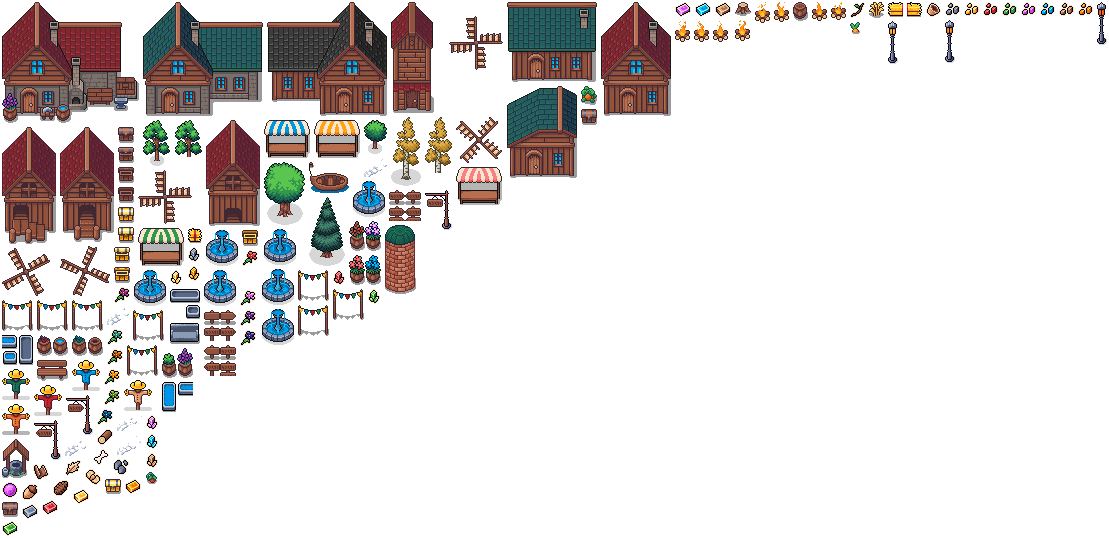
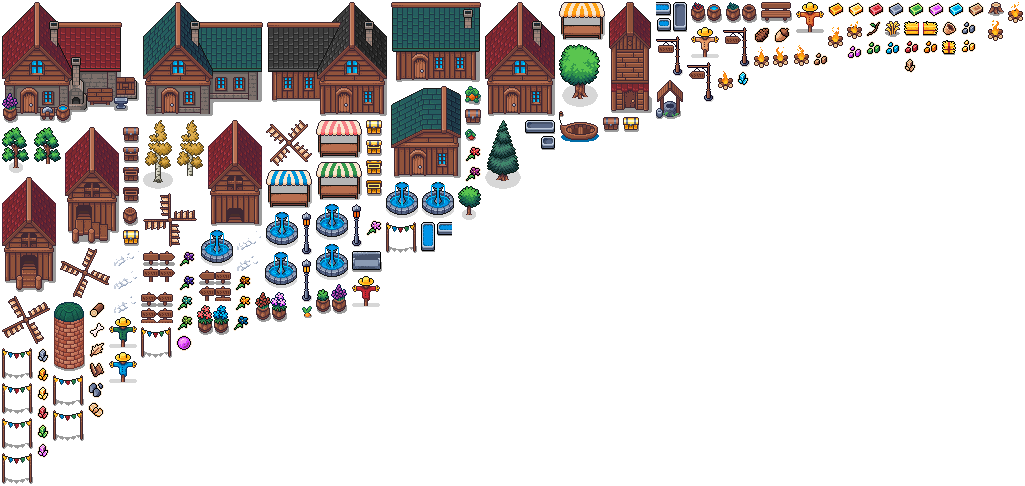
web: polish — windmill sails turn, drawn gold coin and purse in the Town, sellers stand behind their stalls
The mill sprite was the whole sheet (tower plus a loose sail side by side); it is now the tower with the
animated sail on its hub. Coins and the purse use the drawn icons (a plain gold coin, no currency logo)
instead of Kenmi's gold ore. A listing sends its seller behind the stall's counter ('N credits for M sat!')
and back home when it is sold or cancelled.

diff --git a/apps/web/src/town/scenes/TownScene.ts b/apps/web/src/town/scenes/TownScene.ts
@@ -6,7 +6,8 @@
 import Phaser from 'phaser'
 import type { AppStoreApi } from '../../store'
 import type { EventBus } from '../../events/bus'
-import { Bell, Cart, House, Stall, Workshop, placeAnimated, placeStatic, Building } from '../entities/Buildings'
+import { Bell, Cart, House, Stall, Workshop, ensureAnim, placeAnimated, placeStatic, Building } from '../entities/Buildings'
+import { ICONS } from '../../ui/icons.generated'
 import { Guard, Stranger, VaultChest } from '../entities/Guard'
 import { Board } from '../entities/Board'
 import { CHARS, Villager, type Profile } from '../entities/Villager'
@@ -61,6 +62,7 @@ export class TownScene extends Phaser.Scene {
     for (let f = 0; f < WATER_FRAMES; f++) this.load.image(`t_water_${f}`, `/game/terrain/water_${f}.png`)
     this.load.atlas('town', '/game/town.png', '/game/town.json')
     this.load.atlas('chars', '/game/chars.png', '/game/chars.json')
+    this.load.spritesheet('icons', '/ui/icons.png', { frameWidth: 16, frameHeight: 16 })
   }
 
   create (): void {
@@ -80,6 +82,8 @@ export class TownScene extends Phaser.Scene {
       if (p.kind === 'house' || p.kind === 'workshop' || p.kind === 'coop' || p.kind === 'board' || p.kind === 'fountain' || p.kind === 'stall' || p.kind === 'fisherman' || p.kind === 'boat') continue
       if (p.anim !== undefined) placeAnimated(this, p.frame.replace(/_\d+$/, ''), p.anim.frames, p.anim.fps, p.x, p.y, Math.floor(p.x / 7))
       else placeStatic(this, p.frame, p.x, p.y)
+      // the mill's sails turn around the hub on the tower's front (32, 40 in the 64×112 tower; 64×80 frames centred on the hub)
+      if (p.kind === 'windmill') this.add.sprite(p.x, p.y - 72, 'town', 'windmill_sail_0').setDepth(p.y + 1).play(ensureAnim(this, 'windmill_sail', 4, 3))
       if (p.kind === 'lantern') this.lamps.push(this.add.image(p.x, p.y - 34, 'glow').setTint(0xffb347).setBlendMode(Phaser.BlendModes.ADD).setAlpha(0).setDepth(DEPTH.lights))
     }
     const door = (p: { x: number, y: number, door?: { dx: number, dy: number } }) => ({ x: p.x + (p.door?.dx ?? 0) * TILE, y: p.y + (p.door?.dy ?? 1) * TILE })
@@ -90,7 +94,7 @@ export class TownScene extends Phaser.Scene {
     const gate = POINTS.gate!
     this.guard = new Guard(this, gate.x + 58, gate.y + 8)
     const harbor = PLACES.find(p => p.kind === 'fisherman')!
-    this.harbor = new Building(this, harbor.x, harbor.y, harbor.frame, 'Harbor office · Coop Rail (experimental)', { x: harbor.x, y: harbor.y + TILE })
+    this.harbor = new Building(this, harbor.x, harbor.y, harbor.frame, 'Harbor · Rail (experimental)', { x: harbor.x, y: harbor.y + TILE })
     const boatPlace = PLACES.find(p => p.kind === 'boat')!
     this.boat = placeStatic(this, boatPlace.frame, boatPlace.x, boatPlace.y)
     this.boatHome = { x: boatPlace.x, y: boatPlace.y }
@@ -201,7 +205,7 @@ export class TownScene extends Phaser.Scene {
 
   boatClaim (vaultId: string | undefined): void {
     const chest = vaultId !== undefined ? this.chests.get(vaultId) : undefined
-    const coin = this.add.image(this.boat.x, this.boat.y - 16, 'town', 'icon_res_12').setOrigin(0.5, 1).setDepth(DEPTH.banner)
+    const coin = this.add.image(this.boat.x, this.boat.y - 16, 'icons', ICONS.coin).setOrigin(0.5, 1).setDepth(DEPTH.banner)
     const to = chest ?? { x: this.harbor.x, y: this.harbor.y - 20 }
     this.tweens.add({ targets: coin, x: to.x, y: to.y - 10, duration: 1100, ease: 'Quad.InOut', onComplete: () => { coin.destroy(); chest?.setBalance(Number(this.deps.store.getState().vaults.byId[vaultId ?? '']?.balanceSats ?? 0)) } })
   }

diff --git a/apps/web/src/town/fx/scenes.ts b/apps/web/src/town/fx/scenes.ts
@@ -10,6 +10,7 @@ import type { Stall } from '../entities/Buildings'
 import { banner } from '../entities/Buildings'
 import { shortHex } from '../../api/woc'
 import { DEPTH } from '../game'
+import { ICONS } from '../../ui/icons.generated'
 
 export function pledgeFx (town: TownScene, v: Villager, credits: string, coinSats: number) {
   return async (ctx: FxContext): Promise<void> => {
@@ -19,7 +20,7 @@ export function pledgeFx (town: TownScene, v: Villager, credits: string, coinSat
       if (!ctx.reducedMotion) await v.walkTo(to.x + (v.slotIndex % 2 === 0 ? -10 : 10), to.y + 4)
       if (ctx.cancelled()) return
       // the coin arcs into the sack, but the purse only glows: the sats stay in the wallet
-      const coin = town.add.sprite(v.x, v.y - 14, 'town', 'icon_res_0').setOrigin(0.5, 1).setDepth(DEPTH.banner)
+      const coin = town.add.sprite(v.x, v.y - 14, 'icons', ICONS.coin).setOrigin(0.5, 1).setDepth(DEPTH.banner)
       await new Promise<void>(resolve => town.tweens.add({ targets: coin, x: town.board.x + 14, y: town.board.y - 6, duration: 500 / ctx.speed, ease: 'Quad.Out', onComplete: () => { coin.destroy(); resolve() } }))
       town.board.flyCredits(`+${credits} credits`)
       v.setPurse('reserved')
@@ -56,7 +57,7 @@ export function settlementFx (town: TownScene, txid: string, participants: numbe
       await ctx.wait(400)
       const house = town.houseOf(v.identity)
       if (house !== undefined) void house.dropChest()
-      const coin = town.add.sprite(v.x, v.y - 16, 'town', 'icon_res_0').setOrigin(0.5, 1).setDepth(DEPTH.banner)
+      const coin = town.add.sprite(v.x, v.y - 16, 'icons', ICONS.coin).setOrigin(0.5, 1).setDepth(DEPTH.banner)
       town.tweens.add({ targets: coin, x: town.workshop.door.x, y: town.workshop.door.y - 10, duration: 900 / ctx.speed, ease: 'Quad.In', onComplete: () => coin.destroy() })
       v.setPurse('idle')
       v.busy = false

diff --git a/apps/web/src/town/bridge.ts b/apps/web/src/town/bridge.ts
@@ -91,7 +91,24 @@ export function attachBridge (town: TownScene, store: AppStoreApi, bus: EventBus
         town.boatClaim(vault?.vaultId)
         break
       }
+      case 'listing_added': {
+        const seller = town.villagers.get(e.data.listing.seller)
+        const stall = town.stallFor(e.data.listing.outpoint)
+        if (seller !== undefined && stall !== undefined && !seller.player) {
+          stall.show(e.data.listing.outpoint, e.data.listing.credits, e.data.listing.askSats)
+          seller.busy = true
+          void seller.walkTo(stall.x + 4, stall.y - 3).then(() => { seller.say(`${e.data.listing.credits} credits for ${e.data.listing.askSats} sat!`, 'gold', 3000) })
+        }
+        break
+      }
+      case 'listing_cancelled': {
+        const seller = town.villagers.get(e.data.listing.seller)
+        if (seller !== undefined && !seller.player) { seller.busy = false; void seller.goHome() }
+        break
+      }
       case 'listing_filled': {
+        const seller = town.villagers.get(e.data.listing.seller)
+        if (seller !== undefined && !seller.player) { seller.say('Sold!', 'gold', 2000); seller.busy = false; void seller.goHome() }
         const buyer = e.data.buyer !== undefined ? town.villagers.get(e.data.buyer) : undefined
         const stall = town.stalls.find(s => s.outpoint === e.data.listing.outpoint)
         if (stall !== undefined) town.fx.enqueue('sweep', sweepFx(town, stall, buyer, e.data.listing.credits))

diff --git a/apps/web/src/town/entities/Villager.ts b/apps/web/src/town/entities/Villager.ts
@@ -1,5 +1,6 @@
 import Phaser from 'phaser'
 import { makeLabel } from './dom'
+import { ICONS } from '../../ui/icons.generated'
 
 export type Profile = 'finetune' | 'eval' | 'inference' | 'visitor'
 export type Facing = 'down' | 'side' | 'up'
@@ -45,7 +46,7 @@ export class Villager extends Phaser.GameObjects.Container {
     this.home = { x, y }
     ensureCharAnims(scene, char)
     this.sprite = scene.add.sprite(0, 0, 'chars', `${char}_idle_down_0`).setOrigin(0.5, feetOrigin(scene, char))
-    this.purse = scene.add.sprite(9, -30, 'town', 'icon_res_0').setOrigin(0.5, 1).setVisible(false)
+    this.purse = scene.add.sprite(9, -30, 'icons', ICONS.sack).setOrigin(0.5, 1).setVisible(false)
     this.nameLabel = makeLabel(scene, 0, -34, label, { size: 6 })
     this.add([this.sprite, this.purse, this.nameLabel])
     this.setSize(16, 28)

diff --git a/apps/web/src/town/entities/Guard.ts b/apps/web/src/town/entities/Guard.ts
@@ -6,6 +6,7 @@
 import Phaser from 'phaser'
 import { makeLabel } from './dom'
 import { Villager } from './Villager'
+import { ICONS } from '../../ui/icons.generated'
 
 export class Guard extends Villager {
   readonly post: { x: number, y: number }
@@ -81,7 +82,7 @@ export class VaultChest extends Phaser.GameObjects.Container {
   /** the owner withdrew: the chest opens and the gold leaves */
   open (): void {
     this.chest.setFrame('chest_gold_5')
-    const coin = this.scene.add.image(this.x, this.y - 10, 'town', 'icon_res_12').setOrigin(0.5, 1).setDepth(this.y + 1)
+    const coin = this.scene.add.image(this.x, this.y - 10, 'icons', ICONS.coin).setOrigin(0.5, 1).setDepth(this.y + 1)
     this.scene.tweens.add({ targets: coin, y: this.y - 60, alpha: 0, duration: 900, onComplete: () => coin.destroy() })
   }
 }
